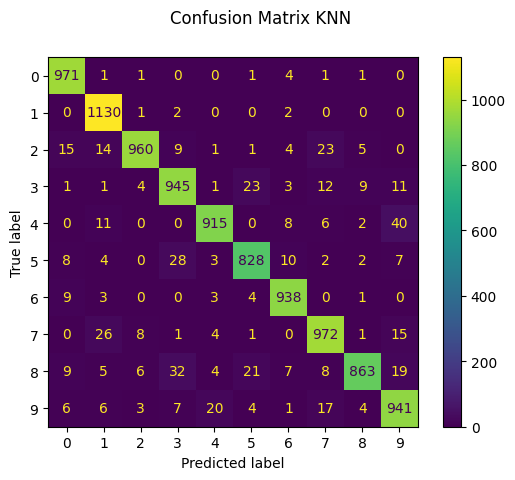
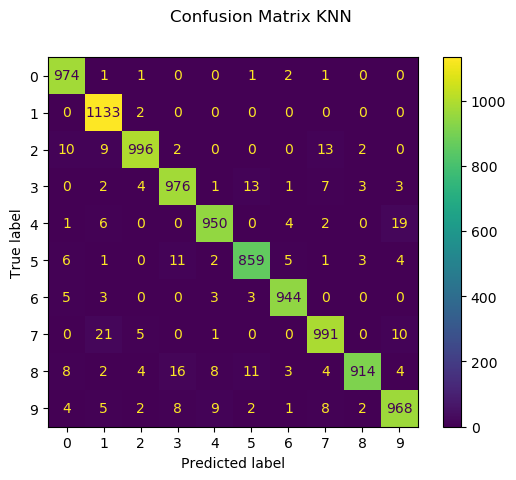
opencv segmentation

diff --git a/cv_segmentation.py b/cv_segmentation.py
@@ -1,0 +1,85 @@
+from __future__ import print_function
+import cv2 as cv
+import numpy as np
+import argparse
+import random as rng
+rng.seed(12345)
+parser = argparse.ArgumentParser(description='Code for Image Segmentation with Distance Transform and Watershed Algorithm.\
+    Sample code showing how to segment overlapping objects using Laplacian filtering, \
+    in addition to Watershed and Distance Transformation')
+parser.add_argument('--input', help='Path to input image.', default='digits.jpg')
+args = parser.parse_args()
+src = cv.imread(cv.samples.findFile(args.input))
+if src is None:
+    print('Could not open or find the image:', args.input)
+    exit(0)
+# Show source image
+cv.imshow('Source Image', src)
+kernel = np.array([[1, 1, 1], [1, -8, 1], [1, 1, 1]], dtype=np.float32)
+# do the laplacian filtering as it is
+# well, we need to convert everything in something more deeper then CV_8U
+# because the kernel has some negative values,
+# and we can expect in general to have a Laplacian image with negative values
+# BUT a 8bits unsigned int (the one we are working with) can contain values from 0 to 255
+# so the possible negative number will be truncated
+#imgLaplacian = cv.filter2D(src, cv.CV_32F, kernel)
+#sharp = np.float32(src)
+#imgResult = sharp - imgLaplacian
+# convert back to 8bits gray scale
+#imgResult = np.clip(imgResult, 0, 255)
+#imgResult = imgResult.astype('uint8')
+#imgLaplacian = np.clip(imgLaplacian, 0, 255)
+#imgLaplacian = np.uint8(imgLaplacian)
+#cv.imshow('Laplace Filtered Image', imgLaplacian)
+#cv.imshow('New Sharped Image', imgResult)
+ksize = (20, 26)
+
+# Using cv.blur() method
+src = cv.blur(src, ksize)
+bw = cv.cvtColor(src, cv.COLOR_BGR2GRAY)
+_, bw = cv.threshold(bw, 40, 255, cv.THRESH_BINARY | cv.THRESH_OTSU)
+cv.imshow('Binary Image', bw)
+dist = cv.distanceTransform(bw, cv.DIST_L2, 5)
+# Normalize the distance image for range = {0.0, 1.0}
+# so we can visualize and threshold it
+cv.normalize(dist, dist, 0, 1.0, cv.NORM_MINMAX)
+cv.imshow('Distance Transform Image', dist)
+_, dist = cv.threshold(dist, 0.4, 1.0, cv.THRESH_BINARY)
+# Dilate a bit the dist image
+kernel1 = np.ones((3,3), dtype=np.uint8)
+dist = cv.dilate(dist, kernel1)
+cv.imshow('Peaks', dist)
+dist_8u = dist.astype('uint8')
+# Find total markers
+contours, _ = cv.findContours(dist_8u, cv.RETR_EXTERNAL, cv.CHAIN_APPROX_SIMPLE)
+# Create the marker image for the watershed algorithm
+markers = np.zeros(dist.shape, dtype=np.int32)
+# Draw the foreground markers
+for i in range(len(contours)):
+    cv.drawContours(markers, contours, i, (i+1), -1)
+# Draw the background marker
+cv.circle(markers, (5,5), 3, (255,255,255), -1)
+markers_8u = (markers * 10).astype('uint8')
+cv.imshow('Markers', markers_8u)
+cv.watershed(src, markers)
+#mark = np.zeros(markers.shape, dtype=np.uint8)
+mark = markers.astype('uint8')
+mark = cv.bitwise_not(mark)
+# uncomment this if you want to see how the mark
+# image looks like at that point
+#cv.imshow('Markers_v2', mark)
+# Generate random colors
+colors = []
+for contour in contours:
+    colors.append((rng.randint(0,256), rng.randint(0,256), rng.randint(0,256)))
+# Create the result image
+dst = np.zeros((markers.shape[0], markers.shape[1], 3), dtype=np.uint8)
+# Fill labeled objects with random colors
+for i in range(markers.shape[0]):
+    for j in range(markers.shape[1]):
+        index = markers[i,j]
+        if index > 0 and index <= len(contours):
+            dst[i,j,:] = colors[index-1]
+# Visualize the final image
+cv.imshow('Final Result', dst)
+cv.waitKey()

diff --git a/lab4.py b/lab4.py
@@ -62,7 +62,7 @@ print('Y_test:  ' + str(test_y.shape))
 # vector classifier on the train samples. The fitted classifier can
 # subsequently be used to predict the value of the digit for the samples
 # in the test subset.
-limit = 10000
+limit = 60000
 # flatten the images
 n_samples = len(train_X)
 data = train_X.reshape((n_samples, -1))
@@ -234,31 +234,48 @@ segments = np.ndarray((10, 28, 28))
 i = 0
 for section in np.unique(labels):
     rows, cols = np.where(labels == section)
-    segments[i] = resize(
+    segments[i].fill(1)
+    segments[i][2:26, 2:26] = resize(
         crop(image, ((min(rows), image.shape[0] - max(rows)), (min(cols), image.shape[1] - max(cols))), copy=True),
-        (28, 28), anti_aliasing=True)
+        (24, 24), anti_aliasing=True)
     i = i + 1
 print('Detected {} segments'.format(len(segments)))
 
-f, axarr = matplotlib.pyplot.subplots(2, 5)
-for i in range(0, 5):
-    for j in range(0, 2):
-        index = j * 5 + i
-        if index < len(segments):
-            axarr[j, i].imshow(segments[j * 5 + i], cmap=matplotlib.pyplot.get_cmap('gray'))
-        # axarr[j, i].axis('off')
 
 matplotlib.pyplot.savefig('Segmentation_result.png', bbox_inches='tight')
 
-data = (segments.reshape((10, -1)) < 0.9) * 255
-predicted = clfSVC.predict(data)
+data = (segments.reshape((10, -1)) < 0.95) * 255
+predicted = clfKNN.predict(data)
+
+_, axes = matplotlib.pyplot.subplots(nrows=2, ncols=5, figsize=(12, 3))
+for i, image, prediction in zip(range(0, 10), data, predicted):
+    image = image.reshape(28, 28)
+    axes[i % 2, i // 2].imshow(image, cmap=matplotlib.pyplot.cm.gray_r, interpolation="nearest")
+    axes[i % 2, i // 2].set_title(f"Prediction KNN: {prediction}")
+    #axes[i % 2, i // 2].set_axis_off()
+
+matplotlib.pyplot.savefig('Segments_classification_KNN.png', bbox_inches='tight')
+
+predicted = clfPCA.predict(data)
 
 _, axes = matplotlib.pyplot.subplots(nrows=2, ncols=5, figsize=(12, 3))
 for i, image, prediction in zip(range(0, 10), data, predicted):
     image = image.reshape(28, 28)
     axes[i % 2, i // 2].imshow(image, cmap=matplotlib.pyplot.cm.gray_r, interpolation="nearest")
     axes[i % 2, i // 2].set_title(f"Prediction: {prediction}")
-    axes[i % 2, i // 2].set_axis_off()
+    #axes[i % 2, i // 2].set_axis_off()
 
-matplotlib.pyplot.savefig('Segments_classification.png', bbox_inches='tight')
-#matplotlib.pyplot.show()
+matplotlib.pyplot.savefig('Segments_classification_PCA.png', bbox_inches='tight')
+
+
+predicted = clfSVC.predict(data)
+
+_, axes = matplotlib.pyplot.subplots(nrows=2, ncols=5, figsize=(12, 3))
+for i, image, prediction in zip(range(0, 10), data, predicted):
+    image = image.reshape(28, 28)
+    axes[i % 2, i // 2].imshow(image, cmap=matplotlib.pyplot.cm.gray_r, interpolation="nearest")
+    axes[i % 2, i // 2].set_title(f"Prediction SVC: {prediction}")
+    #axes[i % 2, i // 2].set_axis_off()
+
+matplotlib.pyplot.savefig('Segments_classification_SVC.png', bbox_inches='tight')
+matplotlib.pyplot.show()
